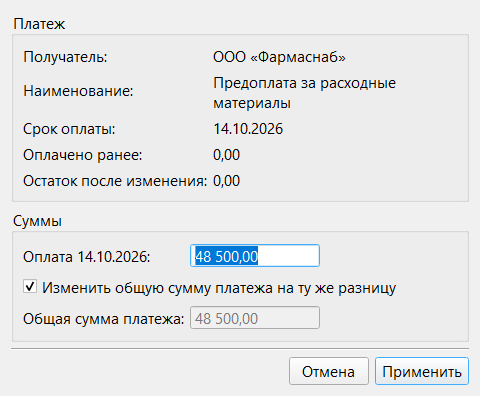
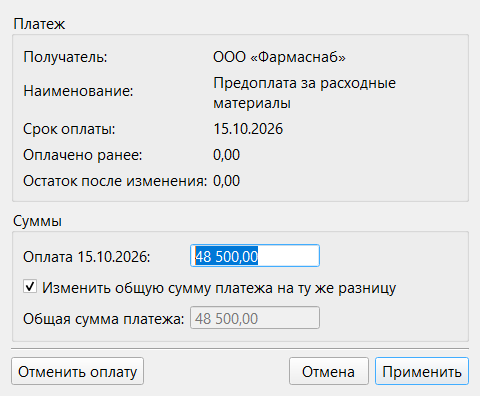
manual: update

Changed region(s): [[0.0312, 0.9091, 0.3125, 0.9697], [0.4375, 0.303, 0.5, 0.3333], [0.1562, 0.6364, 0.2188, 0.6667]]

diff --git a/manual/08-statement-matching.html b/manual/08-statement-matching.html
@@ -135,8 +135,9 @@ th { color: #1f3a5f; }
 </li>
 </ol>
 <p align="center" style="margin-top: 10px; margin-bottom: 4px; line-height: 100%;"><img alt="Окно «Изменение суммы оплаты»" src="images/09-matching/amount-dialog.png" /></p>
-<p align="center" style="margin-top: 0px; margin-bottom: 22px; line-height: 100%;"><span style="color: #6b7280; font-size: 9.5pt;"><em>Рис. 24. Окно «Изменение суммы оплаты». Оплата 14.10 была на 50 000,00, банк списал 48 500,00; флажок включён, поэтому общая сумма платежа тоже стала 48 500,00.</em></span></p>
+<p align="center" style="margin-top: 0px; margin-bottom: 22px; line-height: 100%;"><span style="color: #6b7280; font-size: 9.5pt;"><em>Рис. 24. Окно «Изменение суммы оплаты». Оплата 15.10 была на 50 000,00, банк списал 48 500,00; флажок включён, поэтому общая сумма платежа тоже стала 48 500,00.</em></span></p>
 <p>Окно показывает платеж и <strong>«Оплачено ранее»</strong> (другие оплаты этого платежа без изменяемой) и пересчитывает <strong>«Остаток после изменения»</strong>. Флажок <strong>«Изменить общую сумму платежа на ту же разницу»</strong> включён по умолчанию: тогда общая сумма платежа меняется на столько же, на сколько меняется оплата, и остаток платежа не меняется. Если снять флажок, поле «Общая сумма платежа» становится доступным и вы вводите её сами.</p>
+<p>Кнопка <strong>«Отменить оплату»</strong> удаляет эту оплату (например, если она внесена по ошибке или платежа в выписке нет). Программа спросит: «Отменить оплату … на сумму …? Общая сумма платежа не изменится.» Остаток платежа вырастет на сумму оплаты, сам платеж остаётся.</p>
 <table width="100%" cellspacing="0" cellpadding="0" style="margin-top: 6px; margin-bottom: 18px;"><tr><td width="5" bgcolor="#d98a00"></td><td bgcolor="#fff6e3" style="padding: 10px 16px 0px 16px;">
 <p>⚠ <strong><font color="#d98a00">Внимание.</font></strong> «Применить» сразу записывает новые суммы: сумму этой оплаты и общую сумму платежа. Отмены нет: если применили зря, верните суммы вручную, отредактировав платеж и оплату (разделы <a href="03-event-dialog.html">3</a> и <a href="04-payment.html">4</a>). «Отмена» ничего не меняет.</p>
 </td></tr></table>
@@ -165,7 +166,7 @@ th { color: #1f3a5f; }
 <li>это возврат (платеж-возврат или оплата со знаком «минус», <a href="04-payment.html">раздел 4</a>): в календаре он вносится отрицательной оплатой, а выписка учитывает только списания. Такие записи скрывайте кнопкой «Скрыть выбранные».</li>
 </ul>
 <p>Кнопка <strong>«Изменить сумму оплаты»</strong> (работает, пока выбрана одна запись календаря и ничего не выбрано в списке выписки) открывает окно «Изменение суммы оплаты» (рис. 24) для этой оплаты. Исправьте сумму, если оплата внесена с ошибкой.</p>
-<p>Чтобы изменить другие поля платежа, удалить оплату или изменить её дату, закройте окно сверки и сделайте это в главном окне (разделы <a href="03-event-dialog.html">3</a> и <a href="04-payment.html">4</a>).</p>
+<p>Чтобы изменить другие поля платежа или изменить её дату, закройте окно сверки и сделайте это в главном окне (разделы <a href="03-event-dialog.html">3</a> и <a href="04-payment.html">4</a>).</p>
 <h3 id="s12">Связать вручную</h3>
 <p>Когда запись выписки и запись календаря — одна и та же операция, но программа их не соединила (другая дата, другая сумма, одна операция на несколько оплат или наоборот), свяжите их сами:</p>
 <ol>
@@ -264,12 +265,32 @@ th { color: #1f3a5f; }
 <tr>
 <td style="border-bottom: 1px solid #d9e0e9;">«Сумма оплаты не может быть равна нулю», «Общая сумма платежа не может быть равна нулю»</td>
 <td style="border-bottom: 1px solid #d9e0e9;">В окне «Изменение суммы оплаты» одна из сумм равна 0,00</td>
-<td style="border-bottom: 1px solid #d9e0e9;">Укажите сумму; чтобы убрать оплату, удалите её в главном окне (<a href="04-payment.html">раздел 4</a>)</td>
+<td style="border-bottom: 1px solid #d9e0e9;">Укажите сумму; чтобы убрать оплату, нажмите «Отменить оплату»</td>
 </tr>
 <tr bgcolor="#f7f9fc">
 <td style="border-bottom: 1px solid #d9e0e9;">«Общая сумма платежа не может быть меньше суммы всех оплат по нему»</td>
 <td style="border-bottom: 1px solid #d9e0e9;">Остаток после изменения получился бы отрицательным</td>
 <td style="border-bottom: 1px solid #d9e0e9;">Увеличьте общую сумму платежа или уменьшите сумму оплаты</td>
+</tr>
+<tr>
+<td style="border-bottom: 1px solid #d9e0e9;">«Сумма возврата не может превышать сумму остальных оплат по платежу»</td>
+<td style="border-bottom: 1px solid #d9e0e9;">Оплата со знаком «минус» больше, чем внесено по остальным оплатам платежа</td>
+<td style="border-bottom: 1px solid #d9e0e9;">Уменьшите сумму возврата</td>
+</tr>
+<tr bgcolor="#f7f9fc">
+<td style="border-bottom: 1px solid #d9e0e9;">«Нельзя отменить оплату: остальные оплаты по платежу превысят его общую сумму»</td>
+<td style="border-bottom: 1px solid #d9e0e9;">Остальные оплаты по платежу уже больше его общей суммы (платеж переплачен)</td>
+<td style="border-bottom: 1px solid #d9e0e9;">Увеличьте общую сумму платежа (<a href="03-event-dialog.html">раздел 3</a>) или удалите лишние оплаты в главном окне (<a href="04-payment.html">раздел 4</a>)</td>
+</tr>
+<tr>
+<td style="border-bottom: 1px solid #d9e0e9;">«Нельзя отменить оплату: сумма возвратов превысит сумму остальных оплат»</td>
+<td style="border-bottom: 1px solid #d9e0e9;">Вы удаляете оплату, которой покрыт возврат по этому платежу</td>
+<td style="border-bottom: 1px solid #d9e0e9;">Сначала удалите возврат в главном окне (<a href="04-payment.html">раздел 4</a>)</td>
+</tr>
+<tr bgcolor="#f7f9fc">
+<td style="border-bottom: 1px solid #d9e0e9;">«Не удалось отменить оплату (подробности см. в логе)»</td>
+<td style="border-bottom: 1px solid #d9e0e9;">Оплату не удалось удалить из базы</td>
+<td style="border-bottom: 1px solid #d9e0e9;">Повторите; если не получилось, удалите оплату в главном окне (<a href="04-payment.html">раздел 4</a>)</td>
 </tr>
 <tr>
 <td style="border-bottom: 1px solid #d9e0e9;">Все строки в списках «только в календаре» или «только в выписке», хотя суммы такие же</td>

diff --git a/manual/03-event-dialog.html b/manual/03-event-dialog.html
@@ -147,7 +147,7 @@ th { color: #1f3a5f; }
 <li><strong>Категория → НДС.</strong> При каждой смене категории НДС выставляется заново, даже если вы меняли его вручную: проверяйте НДС после выбора категории.</li>
 <li><strong>Категория → ответственный.</strong> При выборе категории подставляется сотрудник, который чаще всего отвечал за её платежи; если по категории платежей ещё не было, поле остаётся пустым и ответственного нужно выбрать, в том числе при редактировании. Если вы выбрали ответственного сами (из списка или через «По должности…») либо он подставился из договора, смена категории его не меняет. Проверьте «Ответственный».</li>
 <li><strong>Договор → ответственный.</strong> В новом платеже при привязке к документу, у которого в договоре указана должность ответственного, подставляется сотрудник, занимающий эту должность, а в строке состояния на несколько секунд появляется «Ответственный подставлен из договора». Это не происходит, если ответственный уже выбран вручную, а также при редактировании и копировании платежа.</li>
-<li><strong>Срок оплаты → дата возникновения.</strong> Если срок оплаты раньше даты возникновения, дата возникновения сдвигается на срок.</li>
+<li><strong>Срок оплаты → дата возникновения.</strong> Если срок оплаты в прошлом и раньше даты возникновения, дата возникновения сдвигается на срок.</li>
 <li><strong>Список ответственных.</strong> Сотрудники из архива не показываются, кроме уже назначенного на этот платеж.</li>
 </ul>
 <p><strong>Если поле заполнено неверно.</strong> После «Создать» или «Применить» программа покажет сообщение, поставит курсор в проблемное поле и обведёт его красной рамкой (если дата возникновения позже срока оплаты, обводятся оба поля с датами). Рамка пропадает, как только вы измените значение в поле.</p>
@@ -177,7 +177,7 @@ th { color: #1f3a5f; }
 </table>
 <p>Платеж-возврат нельзя редактировать, оплаты по нему нельзя вносить и удалять. Ошиблись — удалите возврат и создайте заново.</p>
 <table width="100%" cellspacing="0" cellpadding="0" style="margin-top: 6px; margin-bottom: 18px;"><tr><td width="5" bgcolor="#d98a00"></td><td bgcolor="#fff6e3" style="padding: 10px 16px 0px 16px;">
-<p>⚠ <strong><font color="#d98a00">Внимание.</font></strong> Не переключайте вид на «возврат» у уже созданного платежа. Оплата возврата создаётся только при создании платежа: у изменённого платежа сумма станет отрицательной без оплаты. Создайте новый платеж с видом «возврат».</p>
+<p>⚠ <strong><font color="#d98a00">Внимание.</font></strong>  При редактировании вид «возврат» выбрать нельзя: оплата возврата создаётся только вместе с платежом. Создайте новый платеж с видом «возврат». Если вам вернули только часть оплаты, внесите оплату со знаком «минус» (<a href="04-payment.html">раздел 4</a>).</p>
 </td></tr></table>
 <table width="100%" cellspacing="0" cellpadding="0" style="margin-top: 24px; margin-bottom: 10px;"><tr><td style="border-bottom: 1px solid #d9e0e9;" style="border-bottom: 1px solid #d9e0e9;"><h2 id="s5">Редактирование платежа</h2></td></tr></table>
 <p>Правила те же, что при создании.</p>

diff --git a/manual/02-main-window.html b/manual/02-main-window.html
@@ -174,7 +174,7 @@ th { color: #1f3a5f; }
 <ul>
 <li>разделы идут по номерам: «1. Текущая деятельность», «2. Финансовая деятельность», «3. Инвестиционная деятельность»;</li>
 <li>подразделы внутри раздела — тоже по номерам («1.1», «1.2»);</li>
-<li>внутри подраздела платежи идут по сроку оплаты: сверху самый ранний.</li>
+<li>внутри подраздела платежи идут по сроку оплаты: сверху самый ранний; при пункте «Оплаченные» — по дате последней оплаты, сверху самая ранняя.</li>
 </ul>
 <p>Сортировки по заголовкам столбцов нет: ищите фильтрами и поиском. Подраздел без платежей не показывается. Если платежей нет совсем, видна надпись «Нет платежей, подходящих под условия фильтрации и поиска».</p>
 <h3 id="s7">Заголовки разделов</h3>
@@ -250,38 +250,42 @@ th { color: #1f3a5f; }
 <td style="border-bottom: 1px solid #d9e0e9;">Сумма платежа минус все оплаты</td>
 </tr>
 <tr bgcolor="#f7f9fc">
+<td style="border-bottom: 1px solid #d9e0e9;">Последняя оплата</td>
+<td style="border-bottom: 1px solid #d9e0e9;">Дата последней оплаты. Показывается на месте столбца «Остаток платежа», пока выбран пункт «Оплаченные» (<a href="05-filters.html">раздел 5</a>)</td>
+</tr>
+<tr>
 <td style="border-bottom: 1px solid #d9e0e9;">Сумма платежа</td>
 <td style="border-bottom: 1px solid #d9e0e9;">Полная сумма платежа</td>
 </tr>
-<tr>
+<tr bgcolor="#f7f9fc">
 <td style="border-bottom: 1px solid #d9e0e9;">Срок оплаты</td>
 <td style="border-bottom: 1px solid #d9e0e9;">Дата, к которой нужно заплатить</td>
 </tr>
-<tr bgcolor="#f7f9fc">
+<tr>
 <td style="border-bottom: 1px solid #d9e0e9;">Дата возникновения</td>
 <td style="border-bottom: 1px solid #d9e0e9;">Дата события, от которого считается срок (например, дата счёта)</td>
 </tr>
-<tr>
+<tr bgcolor="#f7f9fc">
 <td style="border-bottom: 1px solid #d9e0e9;">Вид платежа</td>
 <td style="border-bottom: 1px solid #d9e0e9;">«По факту», «предоплата» или «возврат» (<a href="03-event-dialog.html">раздел 3</a>)</td>
 </tr>
-<tr bgcolor="#f7f9fc">
+<tr>
 <td style="border-bottom: 1px solid #d9e0e9;">Основание платежа</td>
 <td style="border-bottom: 1px solid #d9e0e9;">Документ, например «Счет № 15 от 04.10.2026»</td>
 </tr>
-<tr>
+<tr bgcolor="#f7f9fc">
 <td style="border-bottom: 1px solid #d9e0e9;">Ответственный</td>
 <td style="border-bottom: 1px solid #d9e0e9;">Сотрудник</td>
 </tr>
-<tr bgcolor="#f7f9fc">
+<tr>
 <td style="border-bottom: 1px solid #d9e0e9;">Оплата сегодня</td>
 <td style="border-bottom: 1px solid #d9e0e9;">Сумма оплат, внесённых сегодняшним числом</td>
 </tr>
-<tr>
+<tr bgcolor="#f7f9fc">
 <td style="border-bottom: 1px solid #d9e0e9;">★</td>
 <td style="border-bottom: 1px solid #d9e0e9;">Отметка «На контроле»</td>
 </tr>
-<tr bgcolor="#f7f9fc">
+<tr>
 <td style="border-bottom: 1px solid #d9e0e9;">🔒</td>
 <td style="border-bottom: 1px solid #d9e0e9;">Отметка «Скрытый платеж»</td>
 </tr>

diff --git a/manual/04-payment.html b/manual/04-payment.html
@@ -45,7 +45,7 @@ th { color: #1f3a5f; }
 <tr>
 <td style="border-bottom: 1px solid #d9e0e9;">3</td>
 <td style="border-bottom: 1px solid #d9e0e9;">Поле суммы</td>
-<td style="border-bottom: 1px solid #d9e0e9;">Сколько заплатили; по умолчанию остаток платежа</td>
+<td style="border-bottom: 1px solid #d9e0e9;">Сколько заплатили; по умолчанию остаток платежа (0,00, если платеж переплачен)</td>
 </tr>
 <tr bgcolor="#f7f9fc">
 <td style="border-bottom: 1px solid #d9e0e9;">4</td>
@@ -117,7 +117,7 @@ th { color: #1f3a5f; }
 <table width="100%" cellspacing="0" cellpadding="0" style="margin-top: 24px; margin-bottom: 10px;"><tr><td style="border-bottom: 1px solid #d9e0e9;" style="border-bottom: 1px solid #d9e0e9;"><h2 id="s7">История оплат</h2></td></tr></table>
 <p>Внесённую оплату нельзя изменить: ошиблись в дате или сумме — удалите её и внесите заново.</p>
 <table width="100%" cellspacing="0" cellpadding="0" style="margin-top: 24px; margin-bottom: 10px;"><tr><td style="border-bottom: 1px solid #d9e0e9;" style="border-bottom: 1px solid #d9e0e9;"><h2 id="s8">Удаление оплаты</h2></td></tr></table>
-<p>Выберите оплату в истории и нажмите «Удалить» (или <strong>Del</strong>); программа спросит: «Вы уверены, что хотите удалить запись об оплате?». Остаток увеличится на сумму оплаты, сам платеж не удаляется.</p>
+<p>Выберите оплату в истории и нажмите «Удалить» (или <strong>Del</strong>); программа спросит: «Вы уверены, что хотите удалить запись об оплате?». Остаток увеличится на сумму оплаты, сам платеж не удаляется. Оплату можно удалить и из окна сверки выписки (кнопка «Отменить оплату», <a href="08-statement-matching.html">раздел 8</a>).</p>
 <table width="100%" cellspacing="0" cellpadding="0" style="margin-top: 6px; margin-bottom: 18px;"><tr><td width="5" bgcolor="#d98a00"></td><td bgcolor="#fff6e3" style="padding: 10px 16px 0px 16px;">
 <p>⚠ <strong><font color="#d98a00">Внимание.</font></strong> Отменить удаление нельзя; удалили не ту — внесите заново.</p>
 </td></tr></table>
@@ -176,7 +176,7 @@ th { color: #1f3a5f; }
 <tbody>
 <tr>
 <td style="border-bottom: 1px solid #d9e0e9;">Нажали «Оплатить», ничего не произошло, сообщения нет</td>
-<td style="border-bottom: 1px solid #d9e0e9;">В поле суммы 0,00 (остаток равен нулю)</td>
+<td style="border-bottom: 1px solid #d9e0e9;">В поле суммы 0,00 (остаток равен нулю или платеж переплачен)</td>
 <td style="border-bottom: 1px solid #d9e0e9;">Введите сумму оплаты</td>
 </tr>
 <tr bgcolor="#f7f9fc">

diff --git a/manual/05-filters.html b/manual/05-filters.html
@@ -37,6 +37,7 @@ th { color: #1f3a5f; }
 </td></tr></table>
 <h4 id="s5">Оплаченные платежи</h4>
 <p>«Оплаченные» показывает только недавно оплаченные платежи. Срок: «Настройки» → «Таблица» → «Оплаченные платежи» → «Отображать оплаченные платежи за» — «три месяца» (по умолчанию), «полгода», «один год» или «все время». Отсчёт — от даты <strong>последней оплаты</strong>, а не от срока платежа. Платеж, оплаченный полностью <strong>сегодня</strong>, в «Оплаченные» попадёт только завтра (<a href="02-main-window.html">раздел 2</a>).</p>
+<p>Пока выбран пункт «Оплаченные», платежи идут по дате последней оплаты (сверху самая ранняя), а вместо столбца «Остаток платежа» показан столбец «Последняя оплата».</p>
 <h3 id="s6">Категория</h3>
 <p>Платежи финансовой деятельности показываются все вместе, независимо от подкатегории. Пункта для раздела «Текущая деятельность» целиком нет: оставьте «Все».</p>
 <h3 id="s7">Ответственный</h3>

diff --git a/manual/10-export.html b/manual/10-export.html
@@ -39,7 +39,7 @@ th { color: #1f3a5f; }
 </tr>
 <tr bgcolor="#f7f9fc">
 <td style="border-bottom: 1px solid #d9e0e9;">Столбцы</td>
-<td style="border-bottom: 1px solid #d9e0e9;">Сначала отмечены столбцы, которые сейчас видны в таблице. Выбор действует только на этот экспорт: таблицу в программе он не меняет и в следующий раз не запоминается. «Получатель» отключить нельзя. Столбцов, которых нет в списке, в файле нет</td>
+<td style="border-bottom: 1px solid #d9e0e9;">Сначала отмечены столбцы, которые сейчас видны в таблице. Выбор действует только на этот экспорт: таблицу в программе он не меняет и в следующий раз не запоминается. «Получатель» отключить нельзя. Столбцов, которых нет в списке, в файле нет (например, «Последняя оплата»). При пункте «Оплаченные» столбец «Остаток платежа» не отмечен: отметьте его, если он нужен в файле</td>
 </tr>
 <tr>
 <td style="border-bottom: 1px solid #d9e0e9;">Скрытые платежи</td>
